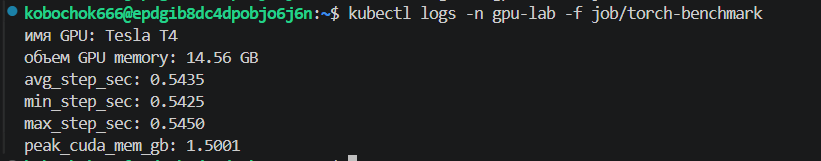
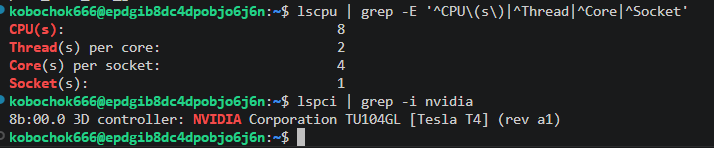
main

diff --git a/отчет/Отчет.md b/отчет/Отчет.md
@@ -11,16 +11,16 @@
 
 
 Cкриншот или текстовый вывод kubectl get pods -A;  
+![alt text](image-19.png)
 вывод nvidia-smi из pod:  
-![alt text](image-3.png)
 ![alt text](image-4.png)
 
 
 Результаты benchmark для exclusive, time-slicing и, если получилось, MPS:  
 1-ый эксперимент:  
-![alt text](image-8.png)  
+![alt text](image-19-2.png)  
 2-ой эксперимент:  
-![alt text](image-17.png)  
+![alt text](image-21.png)  
 
 Графики или значения из Grafana по GPU utilization, memory usage и power usage:  
 1 эксперимент:
@@ -32,8 +32,10 @@ Cкриншот или текстовый вывод kubectl get pods -A;
 
 | Режим | Число pod | Kubernetes resource | Среднее время job (avg_step_sec) | Пик GPU util | Пик FB used | Комментарий |
 |-------|-----------|---------------------|----------------------------------|--------------|--------------|--------------|
-| Exclusive | 1 | `nvidia.com/gpu: 1` | 4.5432 | 100 | 6gb | Один pod использует всю GPU. Память занята ~6 ГБ |
-| Time-slicing | 4 | `nvidia.com/gpu.shared: 4` | ~3.0502 | 100 | 6gb | 4 параллельных pod. Каждый получил ~1.5 ГБ видеопамяти (всего 6). |
+| Exclusive | 1 | `nvidia.com/gpu: 1` | 0.53 | 100 | 6gb | Один pod использует всю GPU. Память занята ~6 ГБ |
+| Time-slicing | 4 | `nvidia.com/gpu.shared: 4` | ~2,328025 | 100 | 6gb | 4 параллельных pod. Каждый получил ~1.5 ГБ видеопамяти (всего 6). |
+
+Как видно, Exclusive примерно в 4 раза и быстрее, чем Time-slicing, явно дело состоит в задаче, но в экспенрименте, который я поставил именно так. Скорее всего это связано с объемом данных для эксперимента (матрицы для перемножения слишком большие, например, и 1.5 гига VRAM сильно хуже справляются), возможно накладные разходы на переключение контекста тоже сыграли роль значительную
 
 ВОПРОСЫ:  
 Почему в exclusive одна job обычно выполняется быстрее?